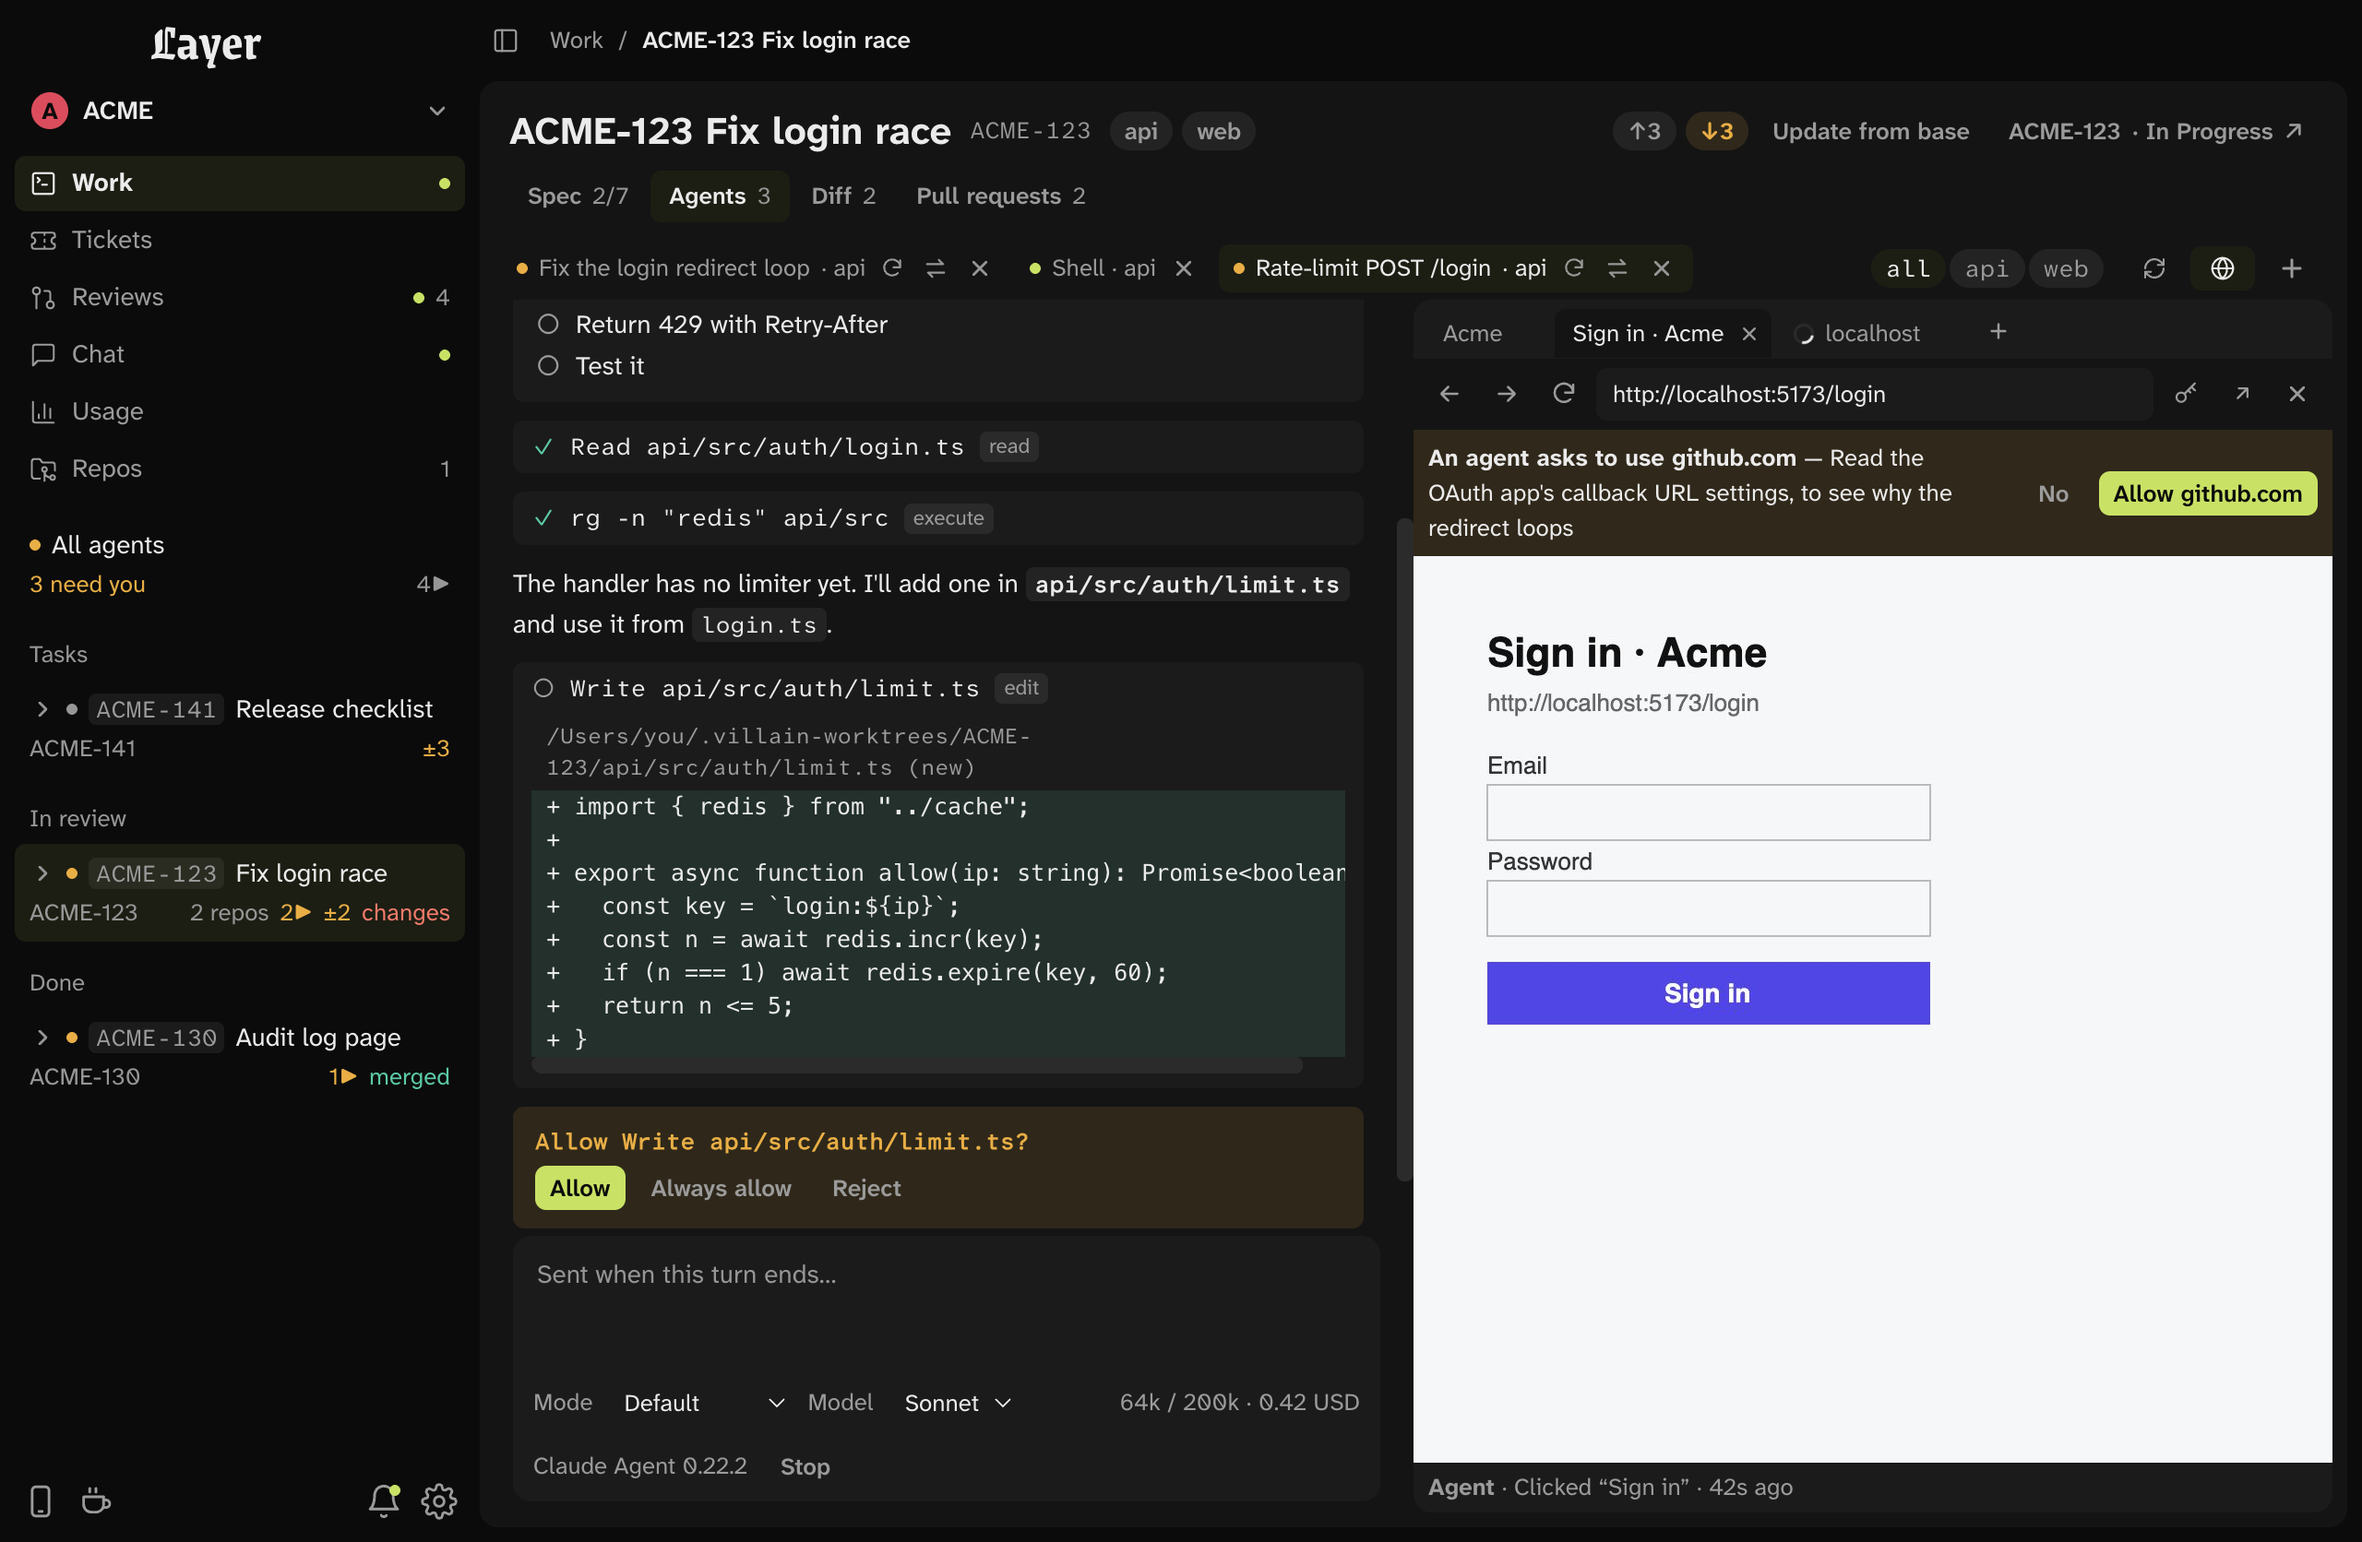
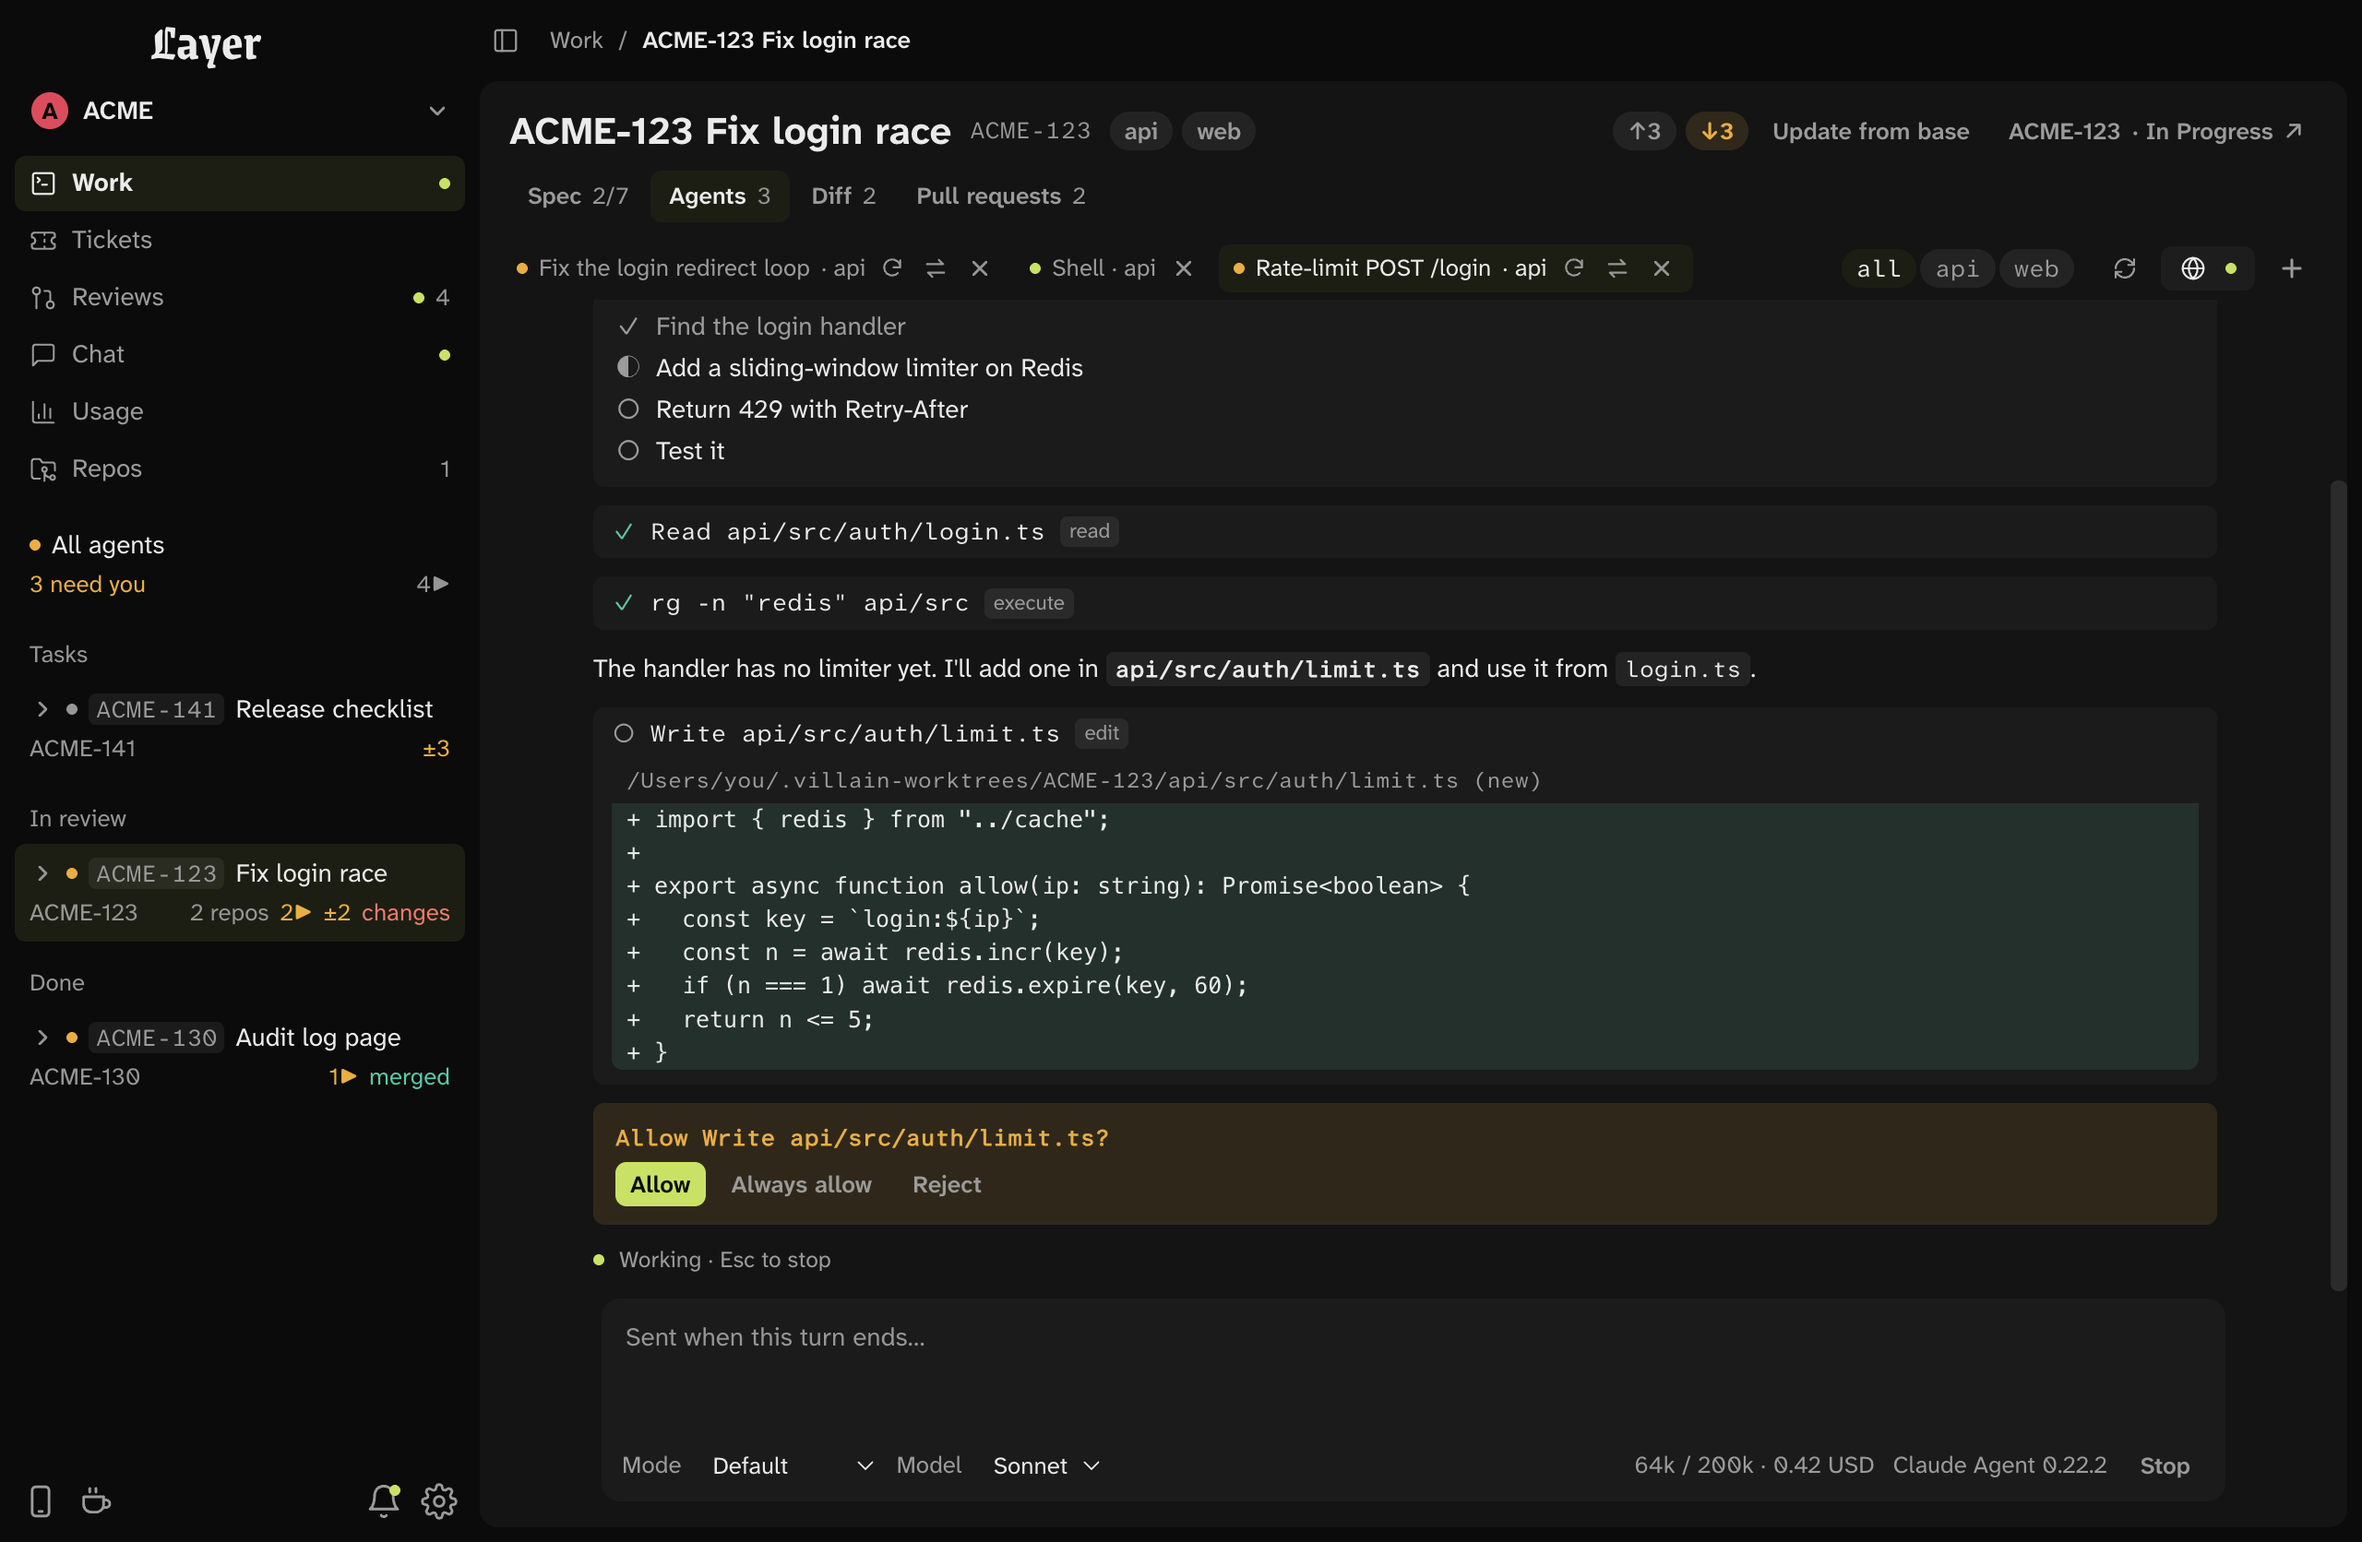
Take the white browser page out of Layer's homepage capture
The mock browser's white sign-in page broke the night palette of the
whole card. The capture now has the browser panel closed, so the
agent's conversation fills the task view.

diff --git a/apps/site/index.html b/apps/site/index.html
@@ -56,7 +56,7 @@
         <header class="product-head"><div class="product-name"><img src="../layer/src-tauri/icons/icon.svg" width="44" height="44" alt=""><div><h3 id="layer-title">Layer</h3><p>Agent development environment for macOS</p></div></div></header>
         <figure class="product-figure">
           <div class="capture-stage">
-            <img src="assets/captures/layer-task.png" width="1280" height="836" alt="Layer's task view for ACME-123, “Fix login race”: the sidebar lists the views and tasks; an agent's conversation shows its edits and asks to write a file, beside the browser it is using.">
+            <img src="assets/captures/layer-task.png" width="1280" height="836" alt="Layer's task view for ACME-123, “Fix login race”: the sidebar lists the views and tasks; an agent works through its plan, shows the file it wants to write, and asks to write it.">
           </div>
           <figcaption>Layer’s task view · example task from its test harness</figcaption>
         </figure>

diff --git a/apps/site/README.md b/apps/site/README.md
@@ -12,7 +12,7 @@ Fonts are self-hosted in [`assets/fonts/`](assets/fonts/), including the reading
 
 The homepage keeps the extended-strike logo above a product showcase. Forge leads with a real capture of its own workspace; Layer and Caster sit beneath it, stacking below 800px. The header menu links to Forge, Layer, Caster, and The log; The log also has a quiet footer link. The introductory heading stands alone, without extra promotional copy on the right. Styles specific to the homepage live in [`home.css`](home.css).
 
-Forge’s and Layer’s cards are screen captures from [`assets/captures/`](assets/captures/); `build.py` ships only the captures a page shows. Layer’s is its task view in Nightshade night, taken at 2× from its mock harness (`apps/layer`, `/mock.html?view=work&task=t-login`, the “pane not reopened” notice dismissed), so its tasks and agents are the harness’s example data, and its caption says so. The Caster illustration is HTML/CSS with explicitly labelled example content: its documented calculator and keyboard shortcut. Product icons come from each app’s existing SVG asset. No live user data is included. The page follows “show less”, “tone, not lines”, and “display for headings” from the shared principles.
+Forge’s and Layer’s cards are screen captures from [`assets/captures/`](assets/captures/); `build.py` ships only the captures a page shows. Layer’s is its task view in Nightshade night, taken at 2× from its mock harness (`apps/layer`, `/mock.html?view=work&task=t-login`, the “pane not reopened” notice dismissed and the browser panel closed, since its white example page breaks the night palette), so its tasks and agents are the harness’s example data, and its caption says so. The Caster illustration is HTML/CSS with explicitly labelled example content: its documented calculator and keyboard shortcut. Product icons come from each app’s existing SVG asset. No live user data is included. The page follows “show less”, “tone, not lines”, and “display for headings” from the shared principles.
 
 Page titles, descriptions, canonical links, and Open Graph metadata use Code Villain and the `www.codevillain.eu` origin. Serve the homepage at `/` and the blog at `/blog/`; keep the existing post URL when deploying. DNS, TLS, and redirects for the bare domain are hosting configuration.
 
